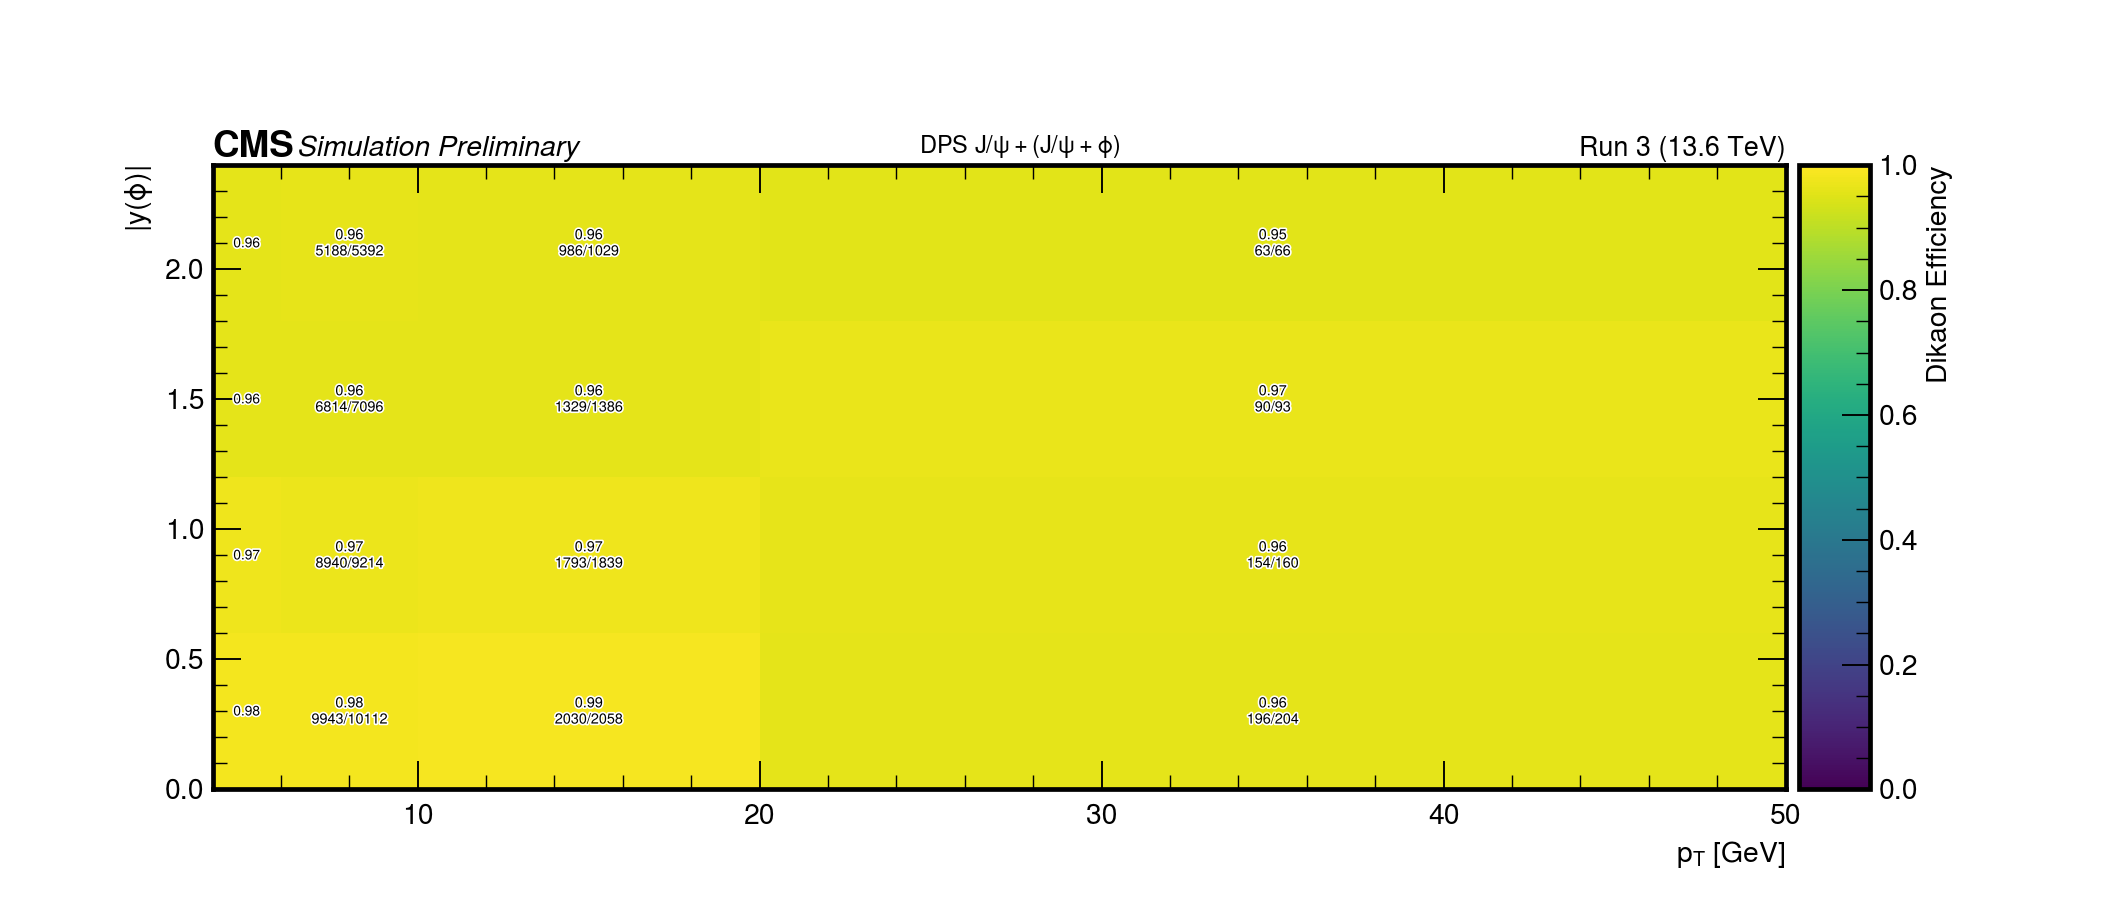
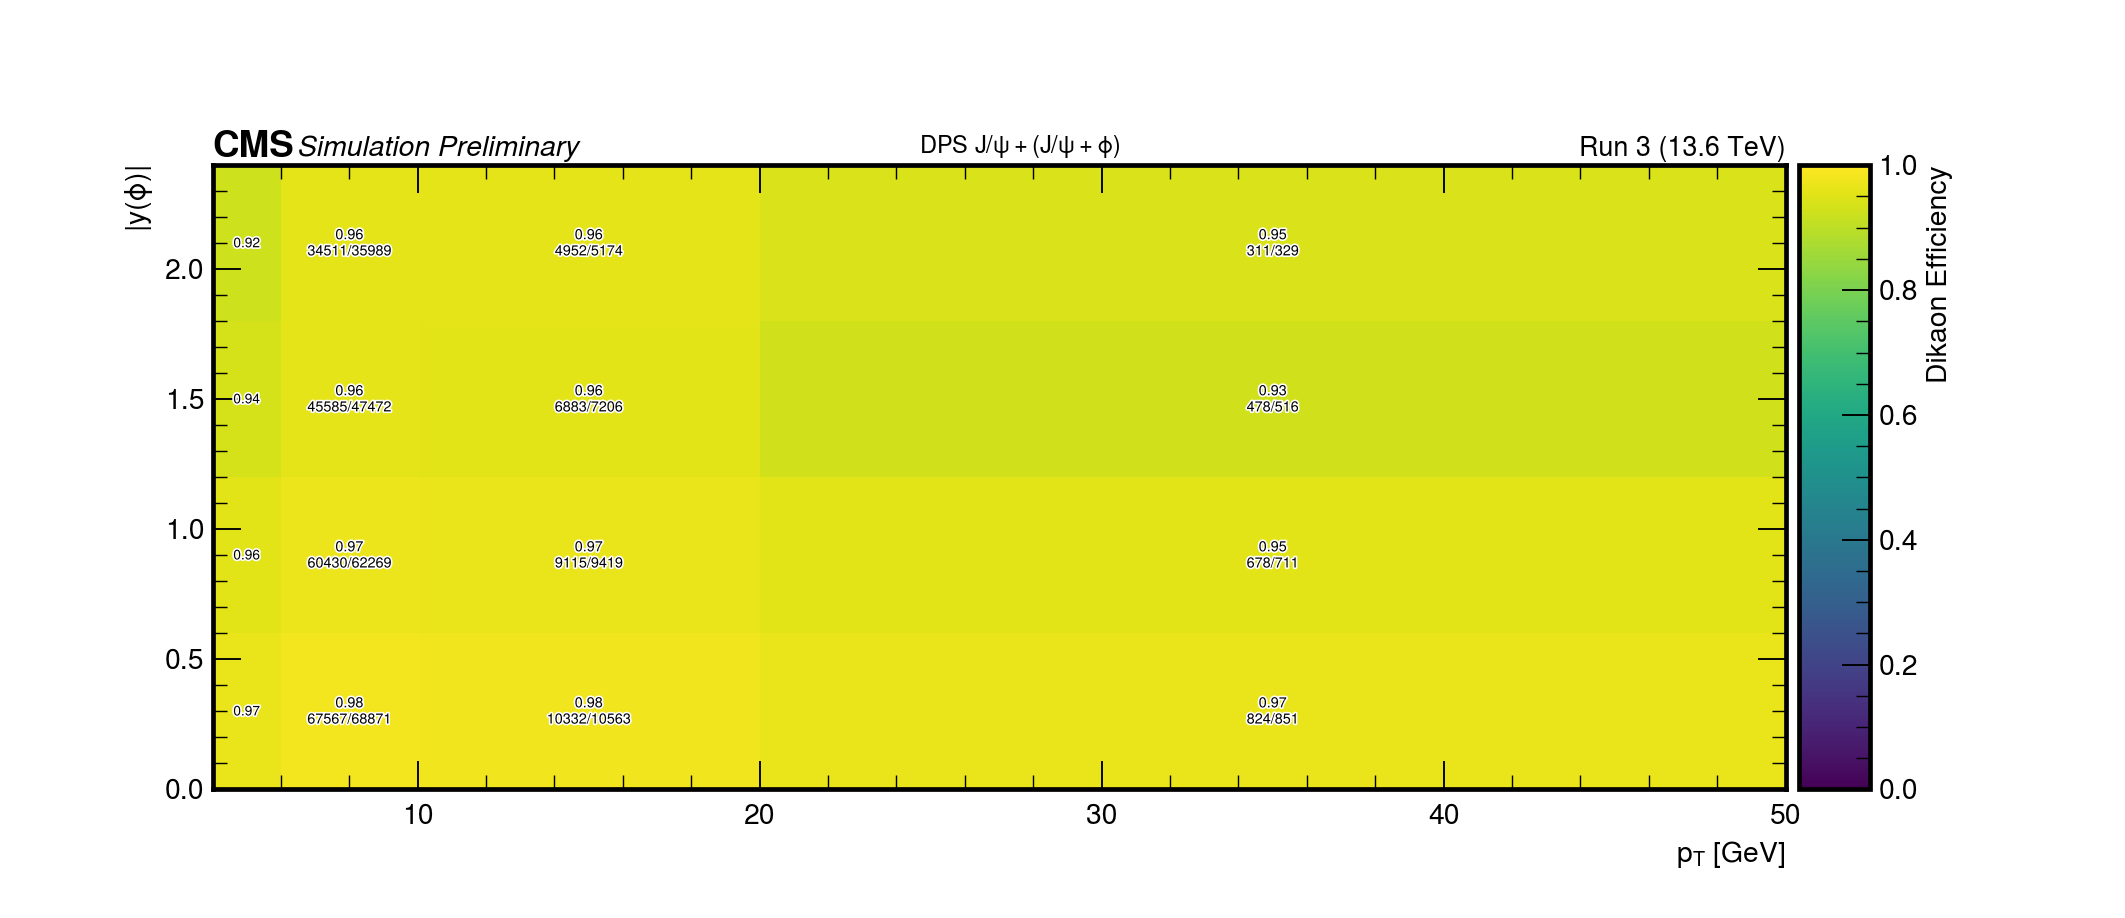
:memo: Add acknowledgements and refresh appendix efficiency maps
:speech_balloon: Replace placeholder acknowledgements with finalized gratitude text
:camera_flash: Refresh dimuon and dikaon efficiency maps used in the appendix
:white_check_mark: Verify the thesis build with the updated assets

diff --git a/data/acknowledgements.tex b/data/acknowledgements.tex
@@ -1,19 +1,31 @@
 % !TeX root = ../thuthesis-example.tex
 
 \begin{acknowledgements}
-  作为提交查重的稿件，致谢的部分暂且不写完。以下是我希望感谢的人的列表，不分先后顺序。希望最后不会写得过于流水账
 
-  本科课程教学各位老师：艾颖华、鲜于中之、续本达、阮东、李蕉、刘恩至、邓俊辉、Babak Hagighat、肖志刚、俞洁琼。
+首先向胡震老师致以最诚挚的感谢！从带队“致知穷粒”支队并帮助联系位于欧洲核子中心的几大高能物理实验的参观，至后来交予我和程幸两位本科生一组从零开始的CMS实验分析并且悉心指导，以及过程中对我两度前往CERN开展研修的各方面支持：走近并不断深入高能物理实验领域的路上，我希望感谢胡老师的指引与支持，您的言传身教也将使我受益终身。
 
-  CMS实验：胡震老师；Markus Seidel、Sebastian Wuchterl；刘锦枫、王晰宁、王雨潇、姚乐凯、顾晋京、陈诗洋、秦俊凯等学长学姐；程幸；Dace, Robert, Conrado, Ojars, Dmitrio.
+衷心感谢CMS合作组的Markus Seidel, Sebastian Wuchterl, Jan Eysermans和FASER合作组的稲田知大等各位老师在自己的暑期研修等研究工作中给予的指导：在他们的指导下，我在软件开发等技能中得到更充分的锻炼，更拓宽自身对高能物理实验领域的认知。
 
-  FASER实验（附加感谢）：稲田知大等各位老师；张顺亮学长。
+衷心感谢清华CMS \& FASER组刘锦枫、王晰宁、王雨潇、张顺亮、顾晋京、姚乐凯、陈诗洋、秦俊凯等学长学姐以及其他同学的帮助与支持！与课题组各位同学的交流给予我在高能物理实验数据分析中许多实用的经验与心得体会，不论是在数据分析的逻辑构建、软件工具的设计，还是对未来规划上：课题组内积极讨论、共同进步的氛围让我受益良多。我同样将感谢致以CMS实验拉脱维亚组的Dace Osite, Robert Plese, Conrado Munoz Diaz, Ojars Martins Eberlins：与你们的交流是我的暑期研修经历中不可或缺的一部分。
 
-  研究资金支持：北京自然科学基金本科生“启研”项目；2025年清华大学本科生海外学术研修支持“闯世界”计划。
+与高能物理实验结缘，我还希望感谢《环球科学》杂志与乔治·伽莫夫(G. Gamov)的《从一到无穷大：科学中的事实和臆测》(One Two Three... Infinity: Facts and Speculations of Science)。前者曾有一篇文章介绍STAR合作组在夸克-胶子等离子体 (Quark-Gluon Plasma, QGP) 领域的研究进展，这构成了我对对撞机实验的最初印象；阅读后者则是我第一次接触中微子等方面的粒子物理知识。至进入清华以来参与“致知穷粒”海外实践支队，一直到今天参与CMS实验分析以及FASER实验的软件工作，或许可谓“一以贯之”。
 
-  中小学阶段的各位教师：金梦、李臻诚；季佩佩、金辉、林以状、刘荃、刘建炜；董玲臣、朱金军、柯建星、陈旭、沈云龙。
+衷心感谢本科期间各门课程的授课老师！“千里之行，始于足下。”这些课程提供了基础性的养料。其中我希望特别感谢以下几位老师与他们讲授的课程（以下排名不分先后）：艾颖华老师与他讲授的“高等微积分”系列课程，鲜于中之老师与他讲授的讲授的“费曼物理学（3）”，肖志刚老师与他讲授的“粒子物理与核物理”，邓俊辉老师与他讲授的“数据结构课程”，续本达老师讲授的“实验物理中的大数据方法”系列课程，王巍老师与他讲授的“科学哲学”，李蕉老师与她讲授的“中国近现代史纲要”，刘恩至老师与他讲授的“马克思主义原理”，俞洁琼老师与她讲授的“德语（1）”。不论是在数学物理基础、学科前沿认知、程序设计与数据处理技术，还是在思想文化、国际视野上，这些课程都在我身上留下印记。
 
-  本科期间的部分团体：学生交通文化交流协会；赵禹砚、洪昱亮、曾念奥“”；“把酒不离（10）”；“沐风”学生骨干培养计划，致理书院学生会文艺部
+衷心感谢致理书院的各位老师，我的班主任高飞老师，和陈烁天辅导员！感谢你们在我的本科四年求学之路中“保驾护航”，帮助我在许多关键时刻解决疑难，指点前行方向，方有我今日顺利完成本科学业。
 
-  特别致谢：父母、姐姐、程幸、张艾
+衷心感谢本科期间曾参与的以下团体以及培养计划（按加入时间排序）：209宿舍，校学生交通文化交流协会，致理书院学生会文艺部，“沐风”学生骨干培养计划，校学生会文化交流部校学生交通文化交流协会宣传片《天地交而万物通》摄制组，校学生艺术团合唱队，和校学生古典音乐社。在其中的交流以及诸多活动为我的本科生活增色不少，更带来许多宝贵的机遇与珍贵的友谊。
+
+特别感谢程幸同学！竞赛奖次和高考分数的巧合似乎只是缘分的开端：从共同撑起“致知穷粒”海外实践支队的多舛旅途，再到合作参与CMS实验分析，以及后来一起去CERN做暑研，一起登上青藜学术节作展示。陈烁天辅导员口中“不知道能否出发，但始终在路上的朋友们”，下半年起将在亚欧大陆两端各自求学。可见的未来里我们依然会在FASER实验里合作，在更长的时间尺度上，“但愿人长久，千里共同途”。
+
+特别感谢张艾女士！“梦幻一般的开始，被爱和稳定包围着”，一个有些玩笑的“显化”测试结果，也真实发生在我们身上。跨越京城与锦城之间的空间间隔而牵手，然后渐渐深入了解彼此：这二百多个日夜有许多幸福回忆，也有太多相互支持的时刻。记得在之前的礼物上写着“这个世界约好一起逛”，愿我们可以一同赴约！
+
+特别感谢我的父母，我的姐姐，以及我的其他各位家人们。迄今二十二年，父母养育我成人，更以他们的勤奋为我树立榜样，并且为我在学术上的探索提供了无条件的支持。我的姐姐是我的英语启蒙教师，并且以她的自律、积极向上以及所取得的学术成就，为我立起极高的标杆。
+
+本研究课题得到了北京自然科学基金本科生“启研”项目的支持；本人2025年暑期赴CERN参与研修得到了2025年清华大学本科生海外学术研修支持“闯世界”计划的支持。在这里一并表示感谢。
+
+
+
+
+
 \end{acknowledgements}